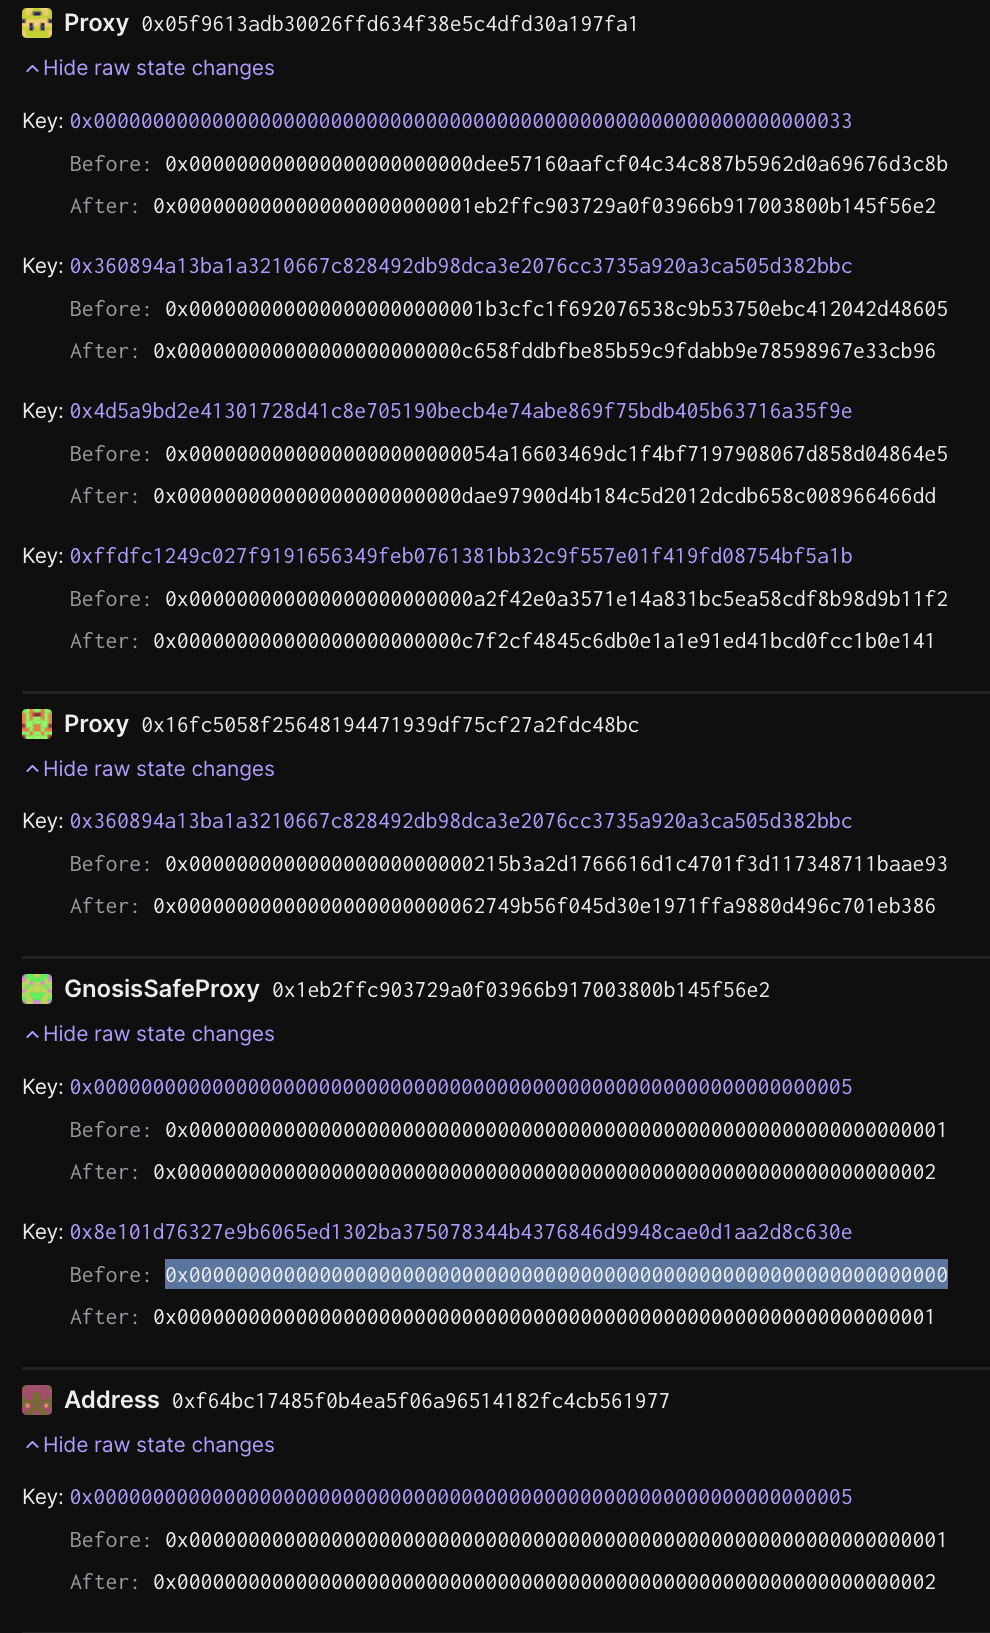
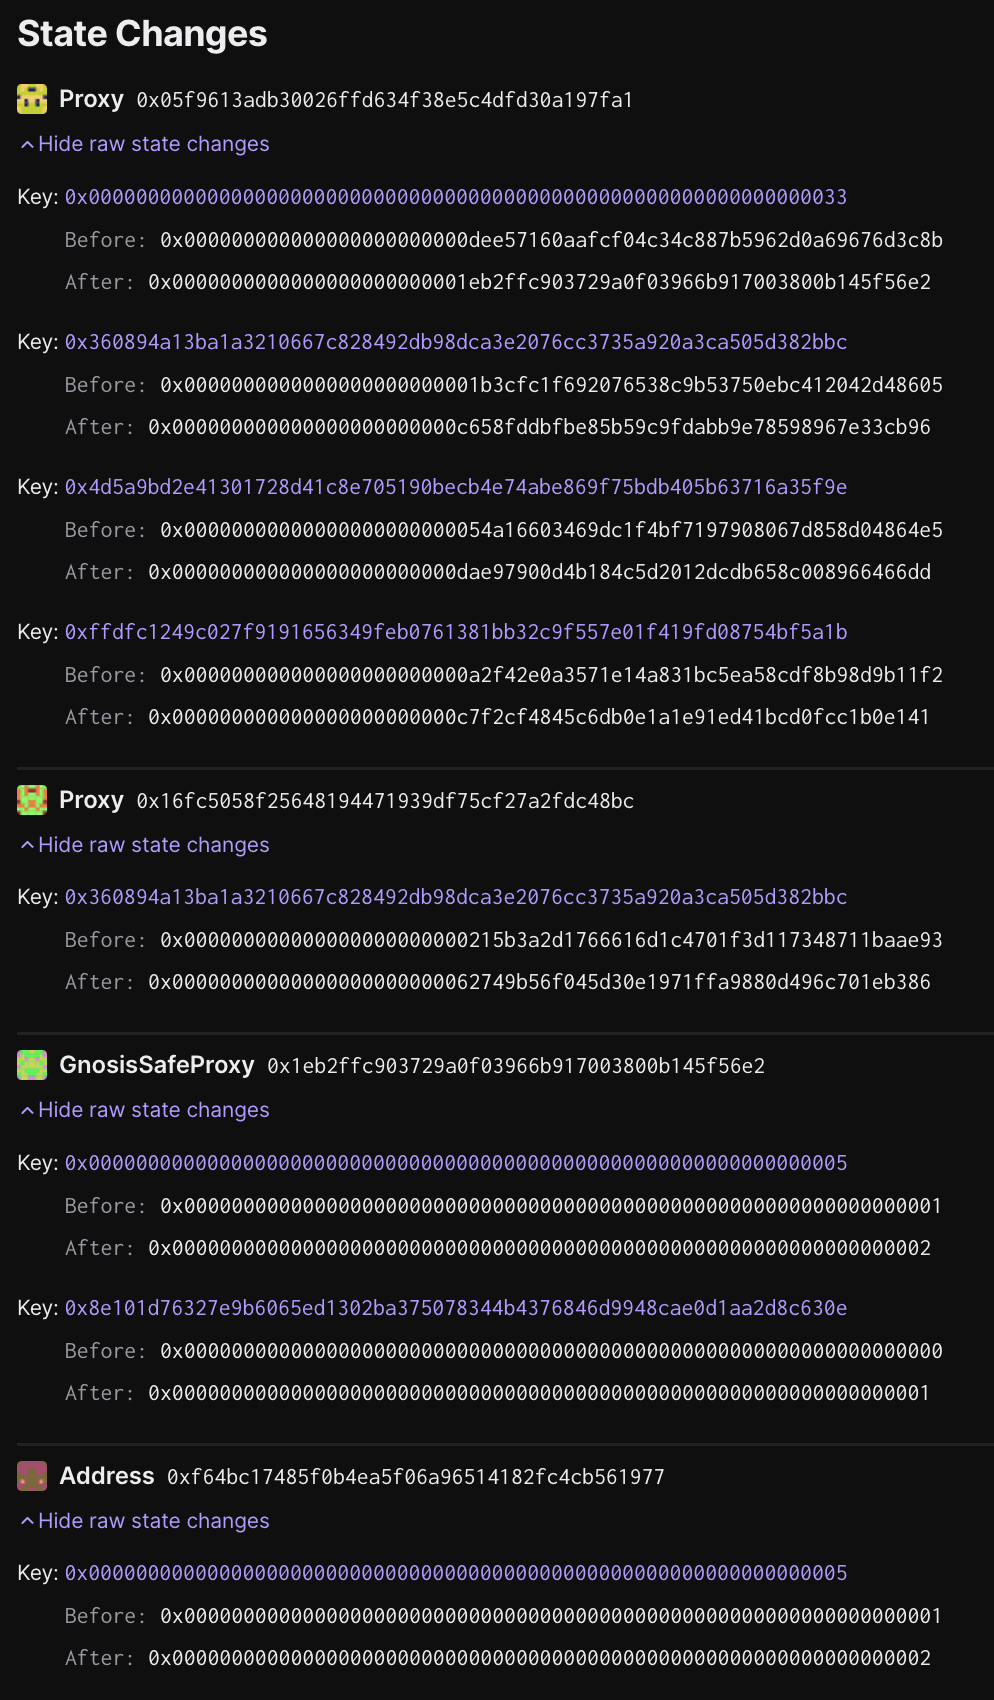
Update game addrs

Changed region(s): [[0.0, 0.0, 0.9697, 0.9994]]

diff --git a/tasks/sep/007-fpac-upgrade/README.md b/tasks/sep/007-fpac-upgrade/README.md
@@ -70,12 +70,12 @@ The following state changes should be seen:
   - Meaning: The implementation of the `DisputeGameFactory` proxy has been upgraded to `0xc658fddbfbe85b59c9fdabb9e78598967e33cb96`
[3 lines of base64/hex data omitted]
-  - Meaning: The implementation of the `PermissionedDisputeGame` has been upgraded to `0xdaE97900D4B184c5D2012dcdB658c008966466DD`
[1 lines of base64/hex data omitted]
+  - Meaning: The implementation of the `PermissionedDisputeGame` has been upgraded to `0xFDcA34EDa4cf5944E9fa0D5DBE2A515a88650FB7`
[3 lines of base64/hex data omitted]
-  - Meaning: The implementation of the `FaultDisputeGame` has been upgraded to `0xC7f2Cf4845C6db0e1a1e91ED41Bcd0FcC1b0E141`
[1 lines of base64/hex data omitted]
+  - Meaning: The implementation of the `FaultDisputeGame` has been upgraded to `0x200b7F3259E1c2F5be6d801339d4E8C3d4534f15`
 
 **[`0x16Fc5058F25648194471939df75CF27A2fdC48BC`][portal-prox-etherscan] (The `OptimismPortal` proxy contract)**
 
